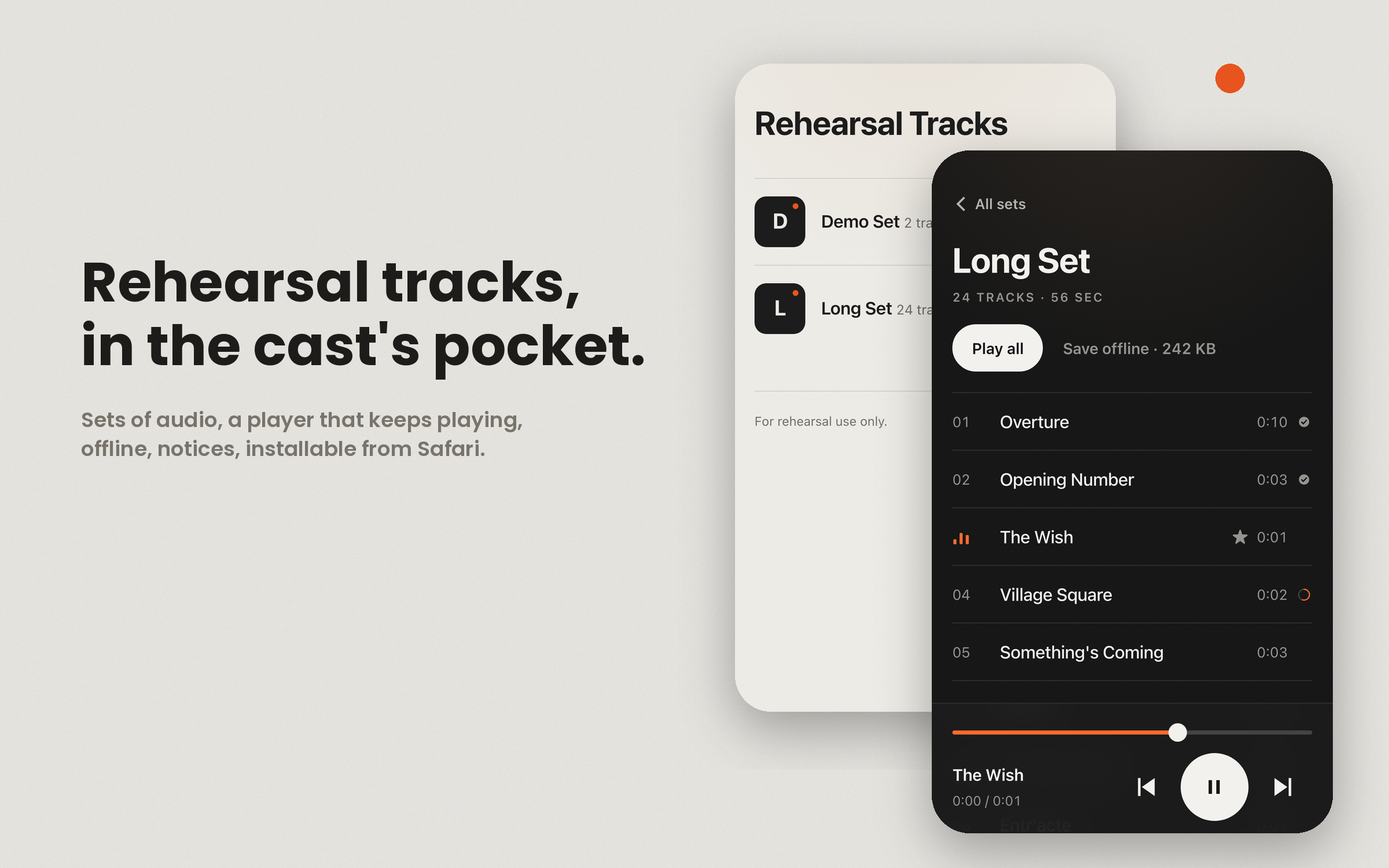
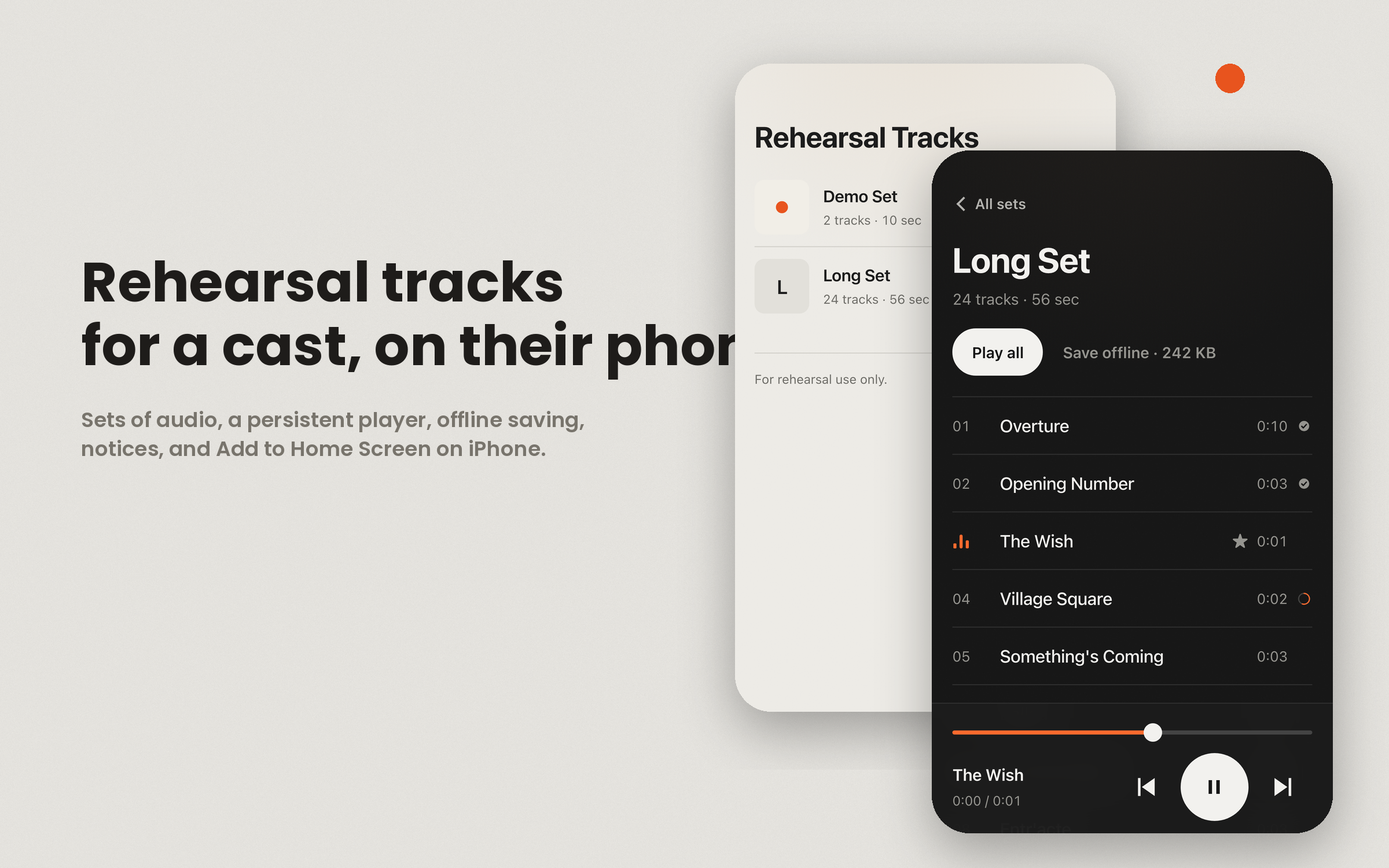
No letterspaced uppercase labels anywhere; page drops kickers and the proof strip; captures refreshed

diff --git a/site/index.html b/site/index.html
@@ -34,7 +34,6 @@ h1,h2{letter-spacing:-.03em;line-height:1.02;font-weight:700;margin:0;text-wrap:
 h1{font-size:clamp(2.75rem,7vw,5.5rem)}
 h2{font-size:clamp(2rem,4.2vw,3.25rem)}
 .lede{font-size:clamp(1.125rem,1.6vw,1.375rem);color:var(--ink-2);max-width:36rem;text-wrap:pretty;line-height:1.4}
-.k{color:var(--ink-3);font-size:.8125rem;font-weight:600;letter-spacing:.14em;text-transform:uppercase}
 /* buttons: machined, no chrome beyond the hairline */
 .btn{appearance:none;border:1px solid var(--ink);background:var(--ink);color:var(--bg);border-radius:999px;padding:0 22px;height:50px;display:inline-flex;align-items:center;gap:10px;font-weight:600;text-decoration:none;font-size:.9375rem;transition:transform var(--t) var(--ease),background var(--t)}
 .btn.quiet{background:transparent;color:var(--ink);border-color:var(--line)}
@@ -52,23 +51,18 @@ h2{font-size:clamp(2rem,4.2vw,3.25rem)}
 .stage .device{position:absolute;width:320px}
 .stage .back{left:0;top:0;transform:rotate(-2deg)}
 .stage .front{left:220px;top:56px;z-index:1;transform:rotate(1.5deg)}
-/* proof strip */
-.strip{border-top:1px solid var(--line);border-bottom:1px solid var(--line)}
-.strip .wrap{display:flex;flex-wrap:wrap;gap:10px 36px;padding:18px 28px;color:var(--ink-3);font-size:.875rem}
 /* statements: one idea, one image, alternating */
 .stmt{padding:120px 0}
 .stmt .wrap{display:grid;grid-template-columns:1fr 1fr;gap:64px;align-items:center}
 .stmt.flip .wrap>:first-child{order:2}
-.stmt .k{margin-bottom:18px;display:block}
-.stmt p{font-size:1.125rem;color:var(--ink-2);max-width:32rem;margin:20px 0 0;text-wrap:pretty}
+.stmt .stmt p{font-size:1.125rem;color:var(--ink-2);max-width:32rem;margin:20px 0 0;text-wrap:pretty}
 .crop{overflow:hidden;border-radius:28px;border:1px solid var(--line);background:var(--surface);aspect-ratio:4/3;position:relative}
 .crop img{position:absolute;left:50%;transform:translateX(-50%);width:min(100%,420px);border-radius:24px 24px 0 0;box-shadow:0 30px 70px -20px rgba(0,0,0,.35)}
 .crop.top img{top:8%}
 .crop.bottom img{bottom:-12%;top:auto;border-radius:24px}
 /* the dark room: the player, at scale */
 .dark{background:#111;color:#f2f1ee;padding:140px 0;position:relative}
-.dark .k{color:#8a8985}
-.dark .lede{color:#b3b2ae}
+.dark .dark .lede{color:#b3b2ae}
 .dark .wrap{display:grid;grid-template-columns:1fr 1fr;gap:64px;align-items:center}
 .dark .device{width:360px;justify-self:center}
 .dark h2{color:#f2f1ee}
@@ -105,8 +99,7 @@ html.js .r.in{opacity:1;transform:none}
 <main id="top">
 <section class="hero"><div class="wrap">
 	<div class="r">
-		<span class="k">WordPress plugin</span>
-		<h1 style="margin-top:18px">Rehearsal tracks for a cast, on their phones.</h1>
+		<h1>Rehearsal tracks for a cast, on their phones.</h1>
 		<p class="lede">Sets of audio served from your own WordPress site. A persistent player, offline saving, lock-screen controls, push notices, and Add to Home Screen on iPhone. No accounts.</p>
 		<div class="cta"><a class="btn" href="#install">Install</a><a class="btn quiet" href="https://github.com/josephfusco/callboard">Source</a></div>
 		<!-- Once the repo is public, add: <a class="btn quiet" href="https://playground.wordpress.net/?blueprint-url=https://raw.githubusercontent.com/josephfusco/callboard/main/blueprint.json">Try it in Playground</a> -->
@@ -114,30 +107,28 @@ html.js .r.in{opacity:1;transform:none}
 	<div class="stage r" aria-hidden="true"><span class="device back"><img src="home-light.png" alt=""></span><span class="device front"><img src="set-dark.png" alt=""></span></div>
 </div></section>
 
-<div class="strip"><div class="wrap"><span>GPL</span><span>Works with any theme</span><span>WCAG 2.2 AA audited</span><span>No build step</span><span>One stylesheet, one script</span></div></div>
-
 <section class="stmt"><div class="wrap">
-	<div class="r"><span class="k">Keeps playing</span><h2>Playback continues across pages.</h2><p>Moving between sets, locking the phone, or switching apps does not stop the player. Artwork and controls appear on the lock screen and in Control Center.</p></div>
+	<div class="r"><h2>Playback continues across pages.</h2><p>Moving between sets, locking the phone, or switching apps does not stop the player. Artwork and controls appear on the lock screen and in Control Center.</p></div>
 	<div class="crop bottom r"><img src="set-dark.png" alt=""></div>
 </div></section>
 
 <section class="stmt flip"><div class="wrap">
-	<div class="r"><span class="k">Offline</span><h2>Tracks save for offline, per track or per set.</h2><p>Each row shows its own progress and a mark when saved. Saved tracks play without a connection. Removing offline copies requires a second tap.</p></div>
+	<div class="r"><h2>Tracks save for offline, per track or per set.</h2><p>Each row shows its own progress and a mark when saved. Saved tracks play without a connection. Removing offline copies requires a second tap.</p></div>
 	<div class="crop top r"><img src="set-light.png" alt=""></div>
 </div></section>
 
 <section class="dark" id="player"><div class="wrap">
 	<span class="device r"><img src="set-dark.png" alt="The set page with the player pinned to the bottom"></span>
-	<div class="r"><span class="k">The player</span><h2>The player.</h2><p class="lede" style="margin-top:20px">Play and pause morph between shapes. The level bars follow the audio where the platform allows it. The scrubber knob moves with the fill. All motion stops under Reduce Motion.</p></div>
+	<div class="r"><h2>The player.</h2><p class="lede" style="margin-top:20px">Play and pause morph between shapes. The level bars follow the audio where the platform allows it. The scrubber knob moves with the fill. All motion stops under Reduce Motion.</p></div>
 </div></section>
 
 <section class="stmt"><div class="wrap">
-	<div class="r"><span class="k">Notices</span><h2>Notices reach the cast's phones.</h2><p>Opt-in Web Push. Publishing a set sends a notification. Sets → Notices sends a message with an optional link.</p></div>
+	<div class="r"><h2>Notices reach the cast's phones.</h2><p>Opt-in Web Push. Publishing a set sends a notification. Sets → Notices sends a message with an optional link.</p></div>
 	<div class="crop top r"><img src="home-light.png" alt=""></div>
 </div></section>
 
 <section class="how" id="how"><div class="wrap">
-	<div class="r"><span class="k">How it works</span><h2 style="margin-top:18px">Sets are posts. Tracks are attachments.</h2></div>
+	<div class="r"><h2>Sets are posts. Tracks are attachments.</h2></div>
 	<div class="grid r">
 		<div><span class="n">01</span><h3>Add a set</h3><p>Upload audio to a set in the admin, drop a folder into uploads, or fetch a playlist with WP-CLI where yt-dlp exists.</p></div>
 		<div><span class="n">02</span><h3>Share one link</h3><p>The home page lists every set. Nothing to sign up for.</p></div>
@@ -147,7 +138,7 @@ html.js .r.in{opacity:1;transform:none}
 </div></section>
 
 <section class="install" id="install"><div class="wrap r">
-	<span class="k">Install</span><h2 style="margin-top:18px">Install</h2>
+	<h2>Install</h2>
 	<pre><code>wp plugin install https://github.com/josephfusco/callboard/releases/latest/download/callboard.zip --activate
 wp callboard fetch 'https://www.youtube.com/playlist?list=…' --name="Spring Show"</code></pre>
 	<p class="lede">Or upload the zip under Plugins → Add New. Requires WordPress 6.5 and PHP 8.1. Fetching from YouTube needs <code class="i">yt-dlp</code> and <code class="i">ffmpeg</code> wherever WP-CLI runs.</p>

diff --git a/assets/app.css b/assets/app.css
@@ -26,7 +26,7 @@ button{font:inherit;color:inherit}
 body.has-deck .app{padding-bottom:calc(var(--deck-h) + var(--safe-b) + 40px)}
 
 /* type */
-.label{margin:0;color:var(--ink-3);font-size:.75rem;font-weight:600;letter-spacing:.12em;text-transform:uppercase}
+.label{margin:0;color:var(--ink-3);font-size:.9375rem}
 h1{margin:6px 0 0;font-size:2.125rem;line-height:1.1;font-weight:700;letter-spacing:-.02em;text-wrap:balance}
 
 .masthead{padding:16px 0 20px;border-bottom:1px solid var(--line)}
